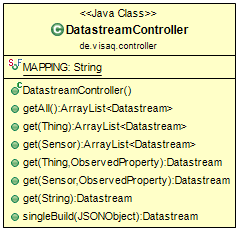
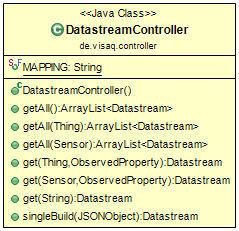
Adapts get() to getALL() as changed in java files

Changed region(s): [[0.1464, 0.6061, 0.8787, 0.6667], [0.1464, 0.5152, 0.8494, 0.5758]]

diff --git a/topics/classDescriptions/backend/subpackages/sensorThingsController.tex b/topics/classDescriptions/backend/subpackages/sensorThingsController.tex
@@ -57,9 +57,9 @@ Methoden:
     \constructorDescription{DatastreamController}
     \item \emph{public ArrayList<Datastream> getAll()}
     \extendsSensorthingController
-    \item \emph{public ArrayList<Datastream> get(Thing thing)}
+    \item \emph{public ArrayList<Datastream> getAll(Thing thing)}
     Gibt alle Datastream Objekte zurück, die im gegebenen Thing enthalten sind.
-    \item \emph{public ArrayList<Datastream> get(Sensor sensor)}
+    \item \emph{public ArrayList<Datastream> getAll(Sensor sensor)}
     Gibt alle Datastream Objekte zurück, die im gegebenen Sensor enthalten sind.
     \item \emph{public Datastream get(Thing thing, ObservedProperty observedProperty)}
     Gibt alle Datastream Objekte zurück, die vom gegebenen Thing mit dem gegebenen ObservedProperty existieren.
@@ -259,7 +259,7 @@ Methoden:
     \extendsSensorthingController
     \item \emph{public Sensor singleBuild(JSONObject json)}
     \extendsSensorthingController
-    \item \emph{public ArrayList<Sensor> get(Thing thing)}
+    \item \emph{public ArrayList<Sensor> getAll(Thing thing)}
     Gibt alle das Sensoren zum gegebenen Thing zurück.
     \item \emph{public Sensor get(Datastream datastream)}
     Gibt den Sensor zum gegebenen Datastream zurück.
@@ -293,7 +293,7 @@ Methoden:
     \extendsSensorthingController
     \item \emph{public Thing singleBuild(JSONObject json)}
     \extendsSensorthingController
-    \item \emph{public ArrayList<Thing> get(Envelope envelope)}
+    \item \emph{public ArrayList<Thing> getAll(Envelope envelope)}
     Gibt alle Things in einem eingeschränkten geographischen Bereich da.
 \end{itemize}
 
